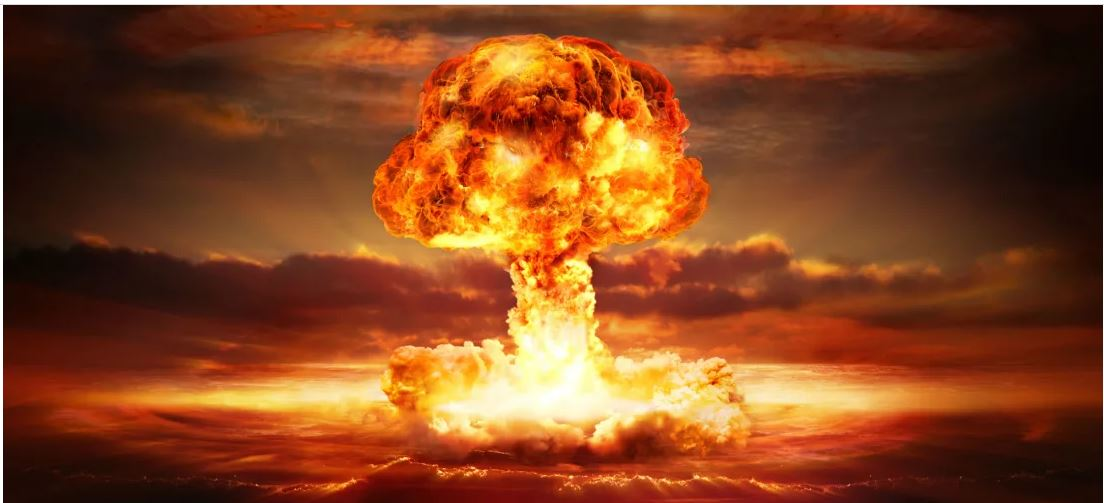
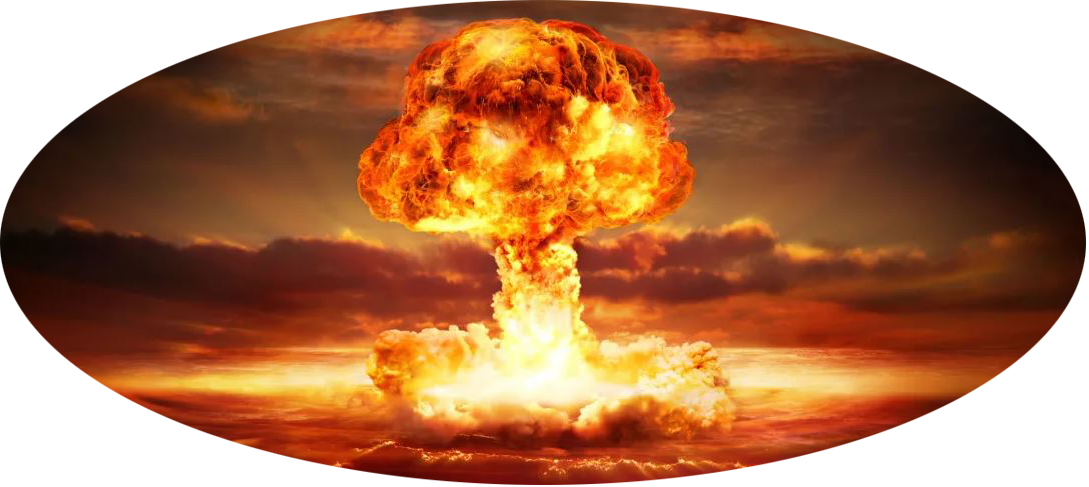
P2: Make images both draggable and resizable

diff --git a/project2/index.html b/project2/index.html
@@ -30,7 +30,7 @@
   </head>
 
   <body>
-<div id="content"> <img src="./assets/images/original.jpg"  width="500" height="450" ></div>
+<div id="content"> <img src="./assets/images/original.jpg"  width="900" height="500" ></div>
 <button id="buttonInput" class="buttonClass" onclick="input()"> Input</button>
 <button id="buttonClose" class="buttonClass" onclick="generate()"> Close</button>
 <button id="buttonColor" class="buttonClass" onclick="colorChange()"> change color</button>
@@ -38,11 +38,20 @@
 <button id="buttonPolitic" class="buttonClass" onclick="chosePolitic()"> Politics</button>
 <button id="buttonTech" class="buttonClass" onclick="choseTech()">Tech</button>
 <button id="buttonWar" class="buttonClass" onclick="choseWar()">Power</button>
-<img id="trump" src="./assets/images/trump.jpg" width="200" height="100">
- <img id="globe" src="./assets/images/globe.png" width="200" height="100">
-<img id="lion" src="./assets/images/lion.jpg" width="200" height="100">
-<img id="lion1" src="./assets/images/lion1.jpg" width="200" height="100">
-<img id="nuclear" src="./assets/images/nuclear.jpg" width="200" height="100">
+<div id="trump" width="250" height="100">
+<img style="width:100%; height:100%" src="./assets/images/trump.png">
+</div>
+<div id="globe"  width="250" height="100">
+ <img style="width:100%; height:100%" src="./assets/images/globe.png" >
+</div>
+
+<div id="lion"  width="650" height="500">
+  <img style="width:100%; height:100%" src="./assets/images/lion.png">
+</div>
+
+<div id="nuclear" width="250" height="100">
+  <img style="width:100%; height:100%" src="./assets/images/nuclear.png">
+</div>
 <div id="text" ></div>
  <input type="text" id="myInput">
 

diff --git a/project2/js/script.js b/project2/js/script.js
@@ -25,23 +25,26 @@ function chosePolitic() {
   $('#globe').show();
 
   $('#trump').draggable();
-$('#trump').resizable();
+    $('#trump').resizable();
+    $('#globe').draggable();
+$('#globe').resizable();
+
 
 document.getElementById('trump').addEventListener('click', rotate);
 document.getElementById('globe').addEventListener('click', rotate);
-  $('#globe').draggable();
+
 
 
 }
 
 function choseTech() {
-  $('#lion1').show();
+
   $('#lion').show();
 
   $('#lion').draggable();
-//$('#lion1').resizable();
-$('#lion1').draggable();
-document.getElementById('lion1').addEventListener('click', rotate);
+$('#lion').resizable();
+
+
 document.getElementById('lion').addEventListener('click', rotate);
 //  $('#globe').draggable();
 
@@ -52,7 +55,7 @@ function choseWar() {
   $('#nuclear').show();
 
   $('#nuclear').draggable();
-//$('#lion1').resizable();
+$('#nuclear').resizable();
 ;
 document.getElementById('nuclear').addEventListener('click', rotate);
 

diff --git a/project2/css/style.css b/project2/css/style.css
@@ -139,6 +139,7 @@ display: none;
    top: 70px;
    left: 250px;
 z-index: 7;
+
 display: none;
 }
 
